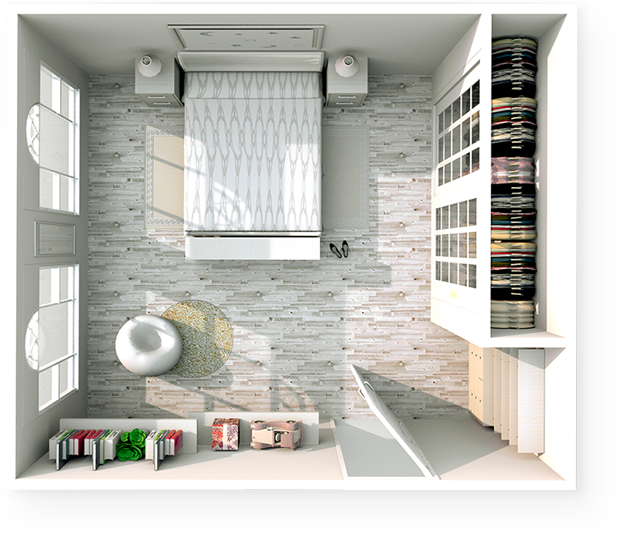
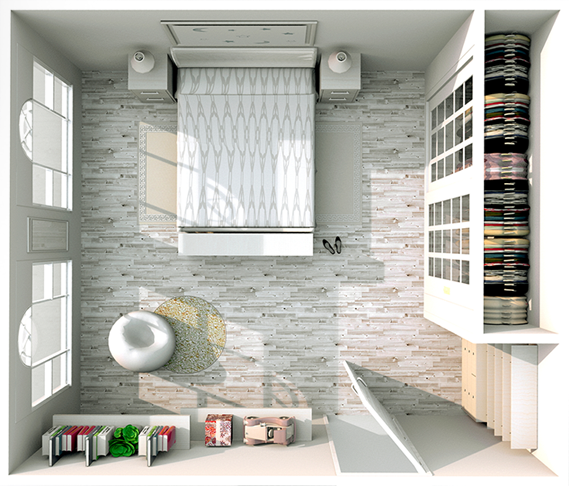
Удалила ненцжные картинки, обрезала hero image

diff --git a/src/css/style.css b/src/css/style.css
@@ -129,12 +129,15 @@ img {
   display: -webkit-box;
   display: -ms-flexbox;
   display: flex;
+  -webkit-box-pack: justify;
+      -ms-flex-pack: justify;
+          justify-content: space-between;
 }
 
 .hero-text {
   -ms-flex-preferred-size: 45%;
       flex-basis: 45%;
-  padding-right: 100px;
+  padding-right: 50px;
 }
 
 .hero-text__title {
@@ -188,10 +191,6 @@ img {
   line-height: 24px;
 }
 
-.hero-img img {
-  max-width: 110%;
-}
-
 @media (max-width: 1200px) {
   .hero-block {
     -webkit-box-orient: vertical;
@@ -200,7 +199,7 @@ img {
             flex-direction: column;
   }
   .hero-list {
-    margin-bottom: 44px;
+    margin-bottom: 38px;
   }
   .hero-text {
     padding-right: 10px;
@@ -230,20 +229,18 @@ img {
 
 @media (max-width: 568px) {
   .hero {
-    padding: 25px 0;
+    padding: 27px 0;
   }
   .hero-text {
     padding-left: 10px;
   }
   .hero-text__title {
+    line-height: 1.3;
     margin-bottom: 5px;
   }
   .hero-list__text {
     max-width: 230px;
-    line-height: 1.4;
-  }
-  .hero-img img {
-    max-width: 104%;
+    line-height: 1.2;
   }
 }
 /*# sourceMappingURL=style.css.map */

diff --git a/src/sass/blocks/_hero.sass b/src/sass/blocks/_hero.sass
@@ -3,9 +3,10 @@
   background-color: $background-color
   &-block 
     display: flex
+    justify-content: space-between
   &-text
     flex-basis: 45%
-    padding-right: 100px
+    padding-right: 50px
     &__title
       font-size: 40px
       font-weight: 400
@@ -35,9 +36,6 @@
     &__text
       max-width: 300px
       line-height: 24px
-  &-img 
-    img 
-      max-width: 110%
 
 
 @media (max-width: 1200px)
@@ -45,7 +43,7 @@
     &-block
       flex-direction: column
     &-list
-      margin-bottom: 44px
+      margin-bottom: 38px
     &-text 
       padding-right: 10px
 
@@ -69,18 +67,16 @@
 
 @media (max-width: 568px)
   .hero
-    padding: 25px 0
+    padding: 27px 0
     &-text
       padding-left: 10px
       &__title 
+        line-height: 1.3
         margin-bottom: 5px
     &-list 
       &__text
         max-width: 230px
-        line-height: 1.4
-    &-img
-      img
-        max-width: 104%
+        line-height: 1.2
 
   
 
